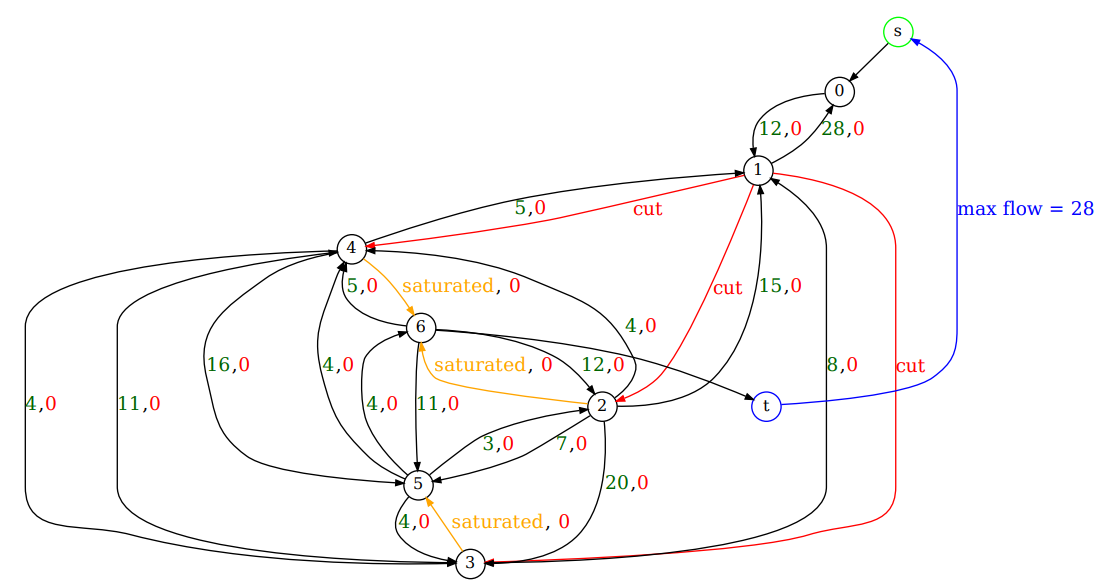
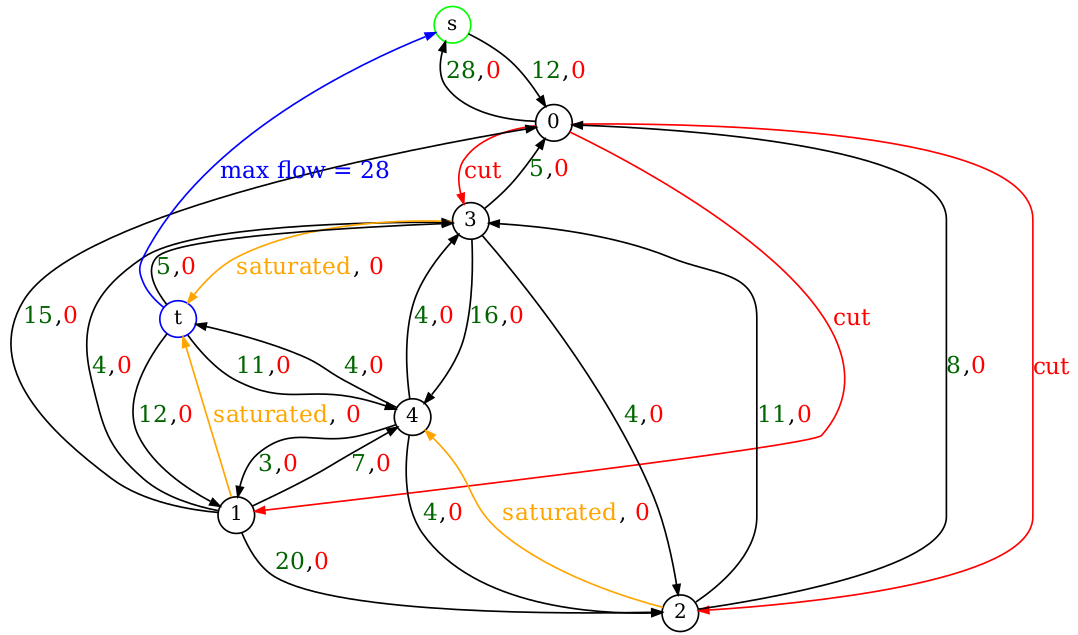
rendu final

diff --git a/main.py b/main.py
@@ -1,55 +1,6 @@
 
 import os
 
-
-class MaxFlow(object):
-
-    def __init__(self, capacities):
-        self.capacities = capacities
-        self.N = len(capacities)
-        self.parent = [0] * self.N
-
-    def BFS(self, src, dst):
-        visited = [False] * self.N
-
-        queue = []
-
-        queue.append(src)
-        visited[src] = True
-
-        while queue:
-
-            u = queue.pop(0)
-            for i, val in enumerate(self.capacities[u]):
-                if visited[i] == False and val > 0:
-                    queue.append(i)
-                    visited[i] = True
-                    self.parent[i] = u
-                    if i == dst:
-                        return True
-        return False
-
-    def findMaxFlow(self, src, dst):
-        max_flow = 0
-
-        while self.BFS(src, dst):
-            path_flow = float("Inf")
-            s = dst
-            while(s != src):
-                path_flow = min(path_flow, self.capacities[self.parent[s]][s])
-                s = self.parent[s]
-
-            max_flow += path_flow
-
-            v = dst
-            while(v != src):
-                u = self.parent[v]
-                self.capacities[u][v] -= path_flow
-                self.capacities[v][u] += path_flow
-                v = self.parent[v]
-
-        return max_flow
-
 class MinCostMaxFlow(object):
     def __init__(self, capacities, cost) -> None:
         self.capacities = capacities
@@ -174,10 +125,13 @@ class MinCostMaxFlow(object):
         return max_flow, min_cost, min_cut
 
     def pprintResult(self, max_flow: int, min_cost: int, min_cut: list):
-        ret = f"Max flow: {max_flow}\nMin cost: {min_cost}\nMin cut "
+        ret = f"Max flow: {max_flow}\nMin cost: {min_cost}"
+        ret += "\nAttention le résultat de la min cut diffère du graphe donné de base car il est réadapter pour rajouter s et t\nMin cut "
+
         for u, v in min_cut:
             ret += f"| ({u} -> {v}) | "
-        ret += f"\nGraph residuel: {self.capacities}"
+        ret += f"\nGraph residuel: {self.capacities}\n"
+        ret += f"Graph cost: {self.cost}"
         print(ret)
 
 
@@ -188,7 +142,6 @@ class MinCostMaxFlow(object):
     node [shape=circle,fixedsize=true,width=.3,height=.3,fontsize=12]
     edge [arrowsize=0.6]
 """
-        text += f'\ts -> {src}\n'
         for i in range(self.N):
             for j in range(self.N):
                 if self.capacities[i][j] != 0:
@@ -197,10 +150,12 @@ class MinCostMaxFlow(object):
                     text += f'\t{i} -> {j} [color=orange, label=<<font color="orange">saturated</font>, <font color="red">{self.cost[i][j]}</font>>]\n'
         for u, v in min_cut:
             text += f'\t{u} -> {v} [color=red, label=<<font color="red">cut</font>>]\n'
+        text += f'\t{dst} -> {src} [color=blue label=<<font color="blue">max flow = {max_flow}</font>>]\n'
+        text += f'\t{src} [label="s" color=green]\n\t{dst} [label="t" color=blue]\n'
 
-        text += f'\t{dst} -> t \n'
-        text += f'\tt -> s [color=blue label=<<font color="blue">max flow = {max_flow}</font>>]\n'
-        text += "\ts [color=green]\n\tt [color=blue]\n"
+        for i in range(self.N - 1):
+            if i+1 != src and i+1 != dst:
+                text += f'\t{i+1} [label="{i}"]\n'
         text += "}"
         with open(file, "w+") as f:
             f.write(text)
@@ -212,20 +167,20 @@ class MinCostMaxFlow(object):
 
 if __name__ == "__main__":
 
-    # start_nodes = [0, 0, 1, 2, 3, 1, 2, 3, 4, 5]
-    # end_nodes = [1, 3, 2, 3, 2, 4, 4, 5, 6, 6]
-    # capacities = [16, 13, 5, 5, 10, 10, 8, 15, 25, 6]
-    # costs = [6, 4, 5, 6, 6, 5, 3, 5, 7, 7]
-    # s = 0
-    # t = 6
+    start_nodes = [0, 0, 1, 2, 3, 1, 2, 3, 4, 5]
+    end_nodes = [1, 3, 2, 3, 2, 4, 4, 5, 6, 6]
+    capacities = [16, 13, 5, 5, 10, 10, 8, 15, 25, 6]
+    costs = [6, 4, 5, 6, 6, 5, 3, 5, 7, 7]
+    s = 0
+    t = 6
 
-    # start_nodes = [ 0, 0,  1, 1,  1,  2, 2,  3, 4]
-    # end_nodes   = [ 1, 2,  2, 3,  4,  3, 4,  4, 2]
-    # capacities  = [15, 8, 20, 4, 10, 15, 4, 20, 5]
-    # costs  = [ 4, 4,  2, 2,  6,  1, 3,  2, 3]
-    # # costs  = [ 0, 0,  0, 0,  0,  0, 0, 0, 0]
-    # s = 0
-    # t = 4
+    start_nodes = [ 0, 0,  1, 1,  1,  2, 2,  3, 4]
+    end_nodes   = [ 1, 2,  2, 3,  4,  3, 4,  4, 2]
+    capacities  = [15, 8, 20, 4, 10, 15, 4, 20, 5]
+    costs  = [ 4, 4,  2, 2,  6,  1, 3,  2, 3]
+    # costs  = [ 0, 0,  0, 0,  0,  0, 0, 0, 0]
+    s = 0
+    t = 4
 
     # start_nodes = [0, 0, 0, 1, 1, 2, 3]
     # end_nodes =   [1, 2, 4, 2, 3, 4, 4]
@@ -298,10 +253,7 @@ if __name__ == "__main__":
     # start_nodes = [0, 0, 0, 1, 1, 2, 3]
     # end_nodes = [1, 2, 4, 2, 3, 4, 4]
     # capacities = [3, 4, 3, 2, 0, 6, 2]
-    # costs = [3, 4, 30, 2, 2, 6, 2]
-    # s = 0
-    # t = 4
-
+    # costs = [3, 4, 30, 2, 2, 6, 2]3
     start_nodes = [ 0 , 1 , 1 , 1 , 2 , 2 , 2 , 2 , 3 , 3 , 4 , 4 ,5 ]
     end_nodes   = [ 1 , 2 , 3 , 4 , 3,  5 , 6 , 4 , 4 , 5 , 5 , 6, 6 ]
     capacities  = [ 40, 15,  8,  5, 20, 10, 12, 4, 15, 4, 20 , 5, 15 ]
